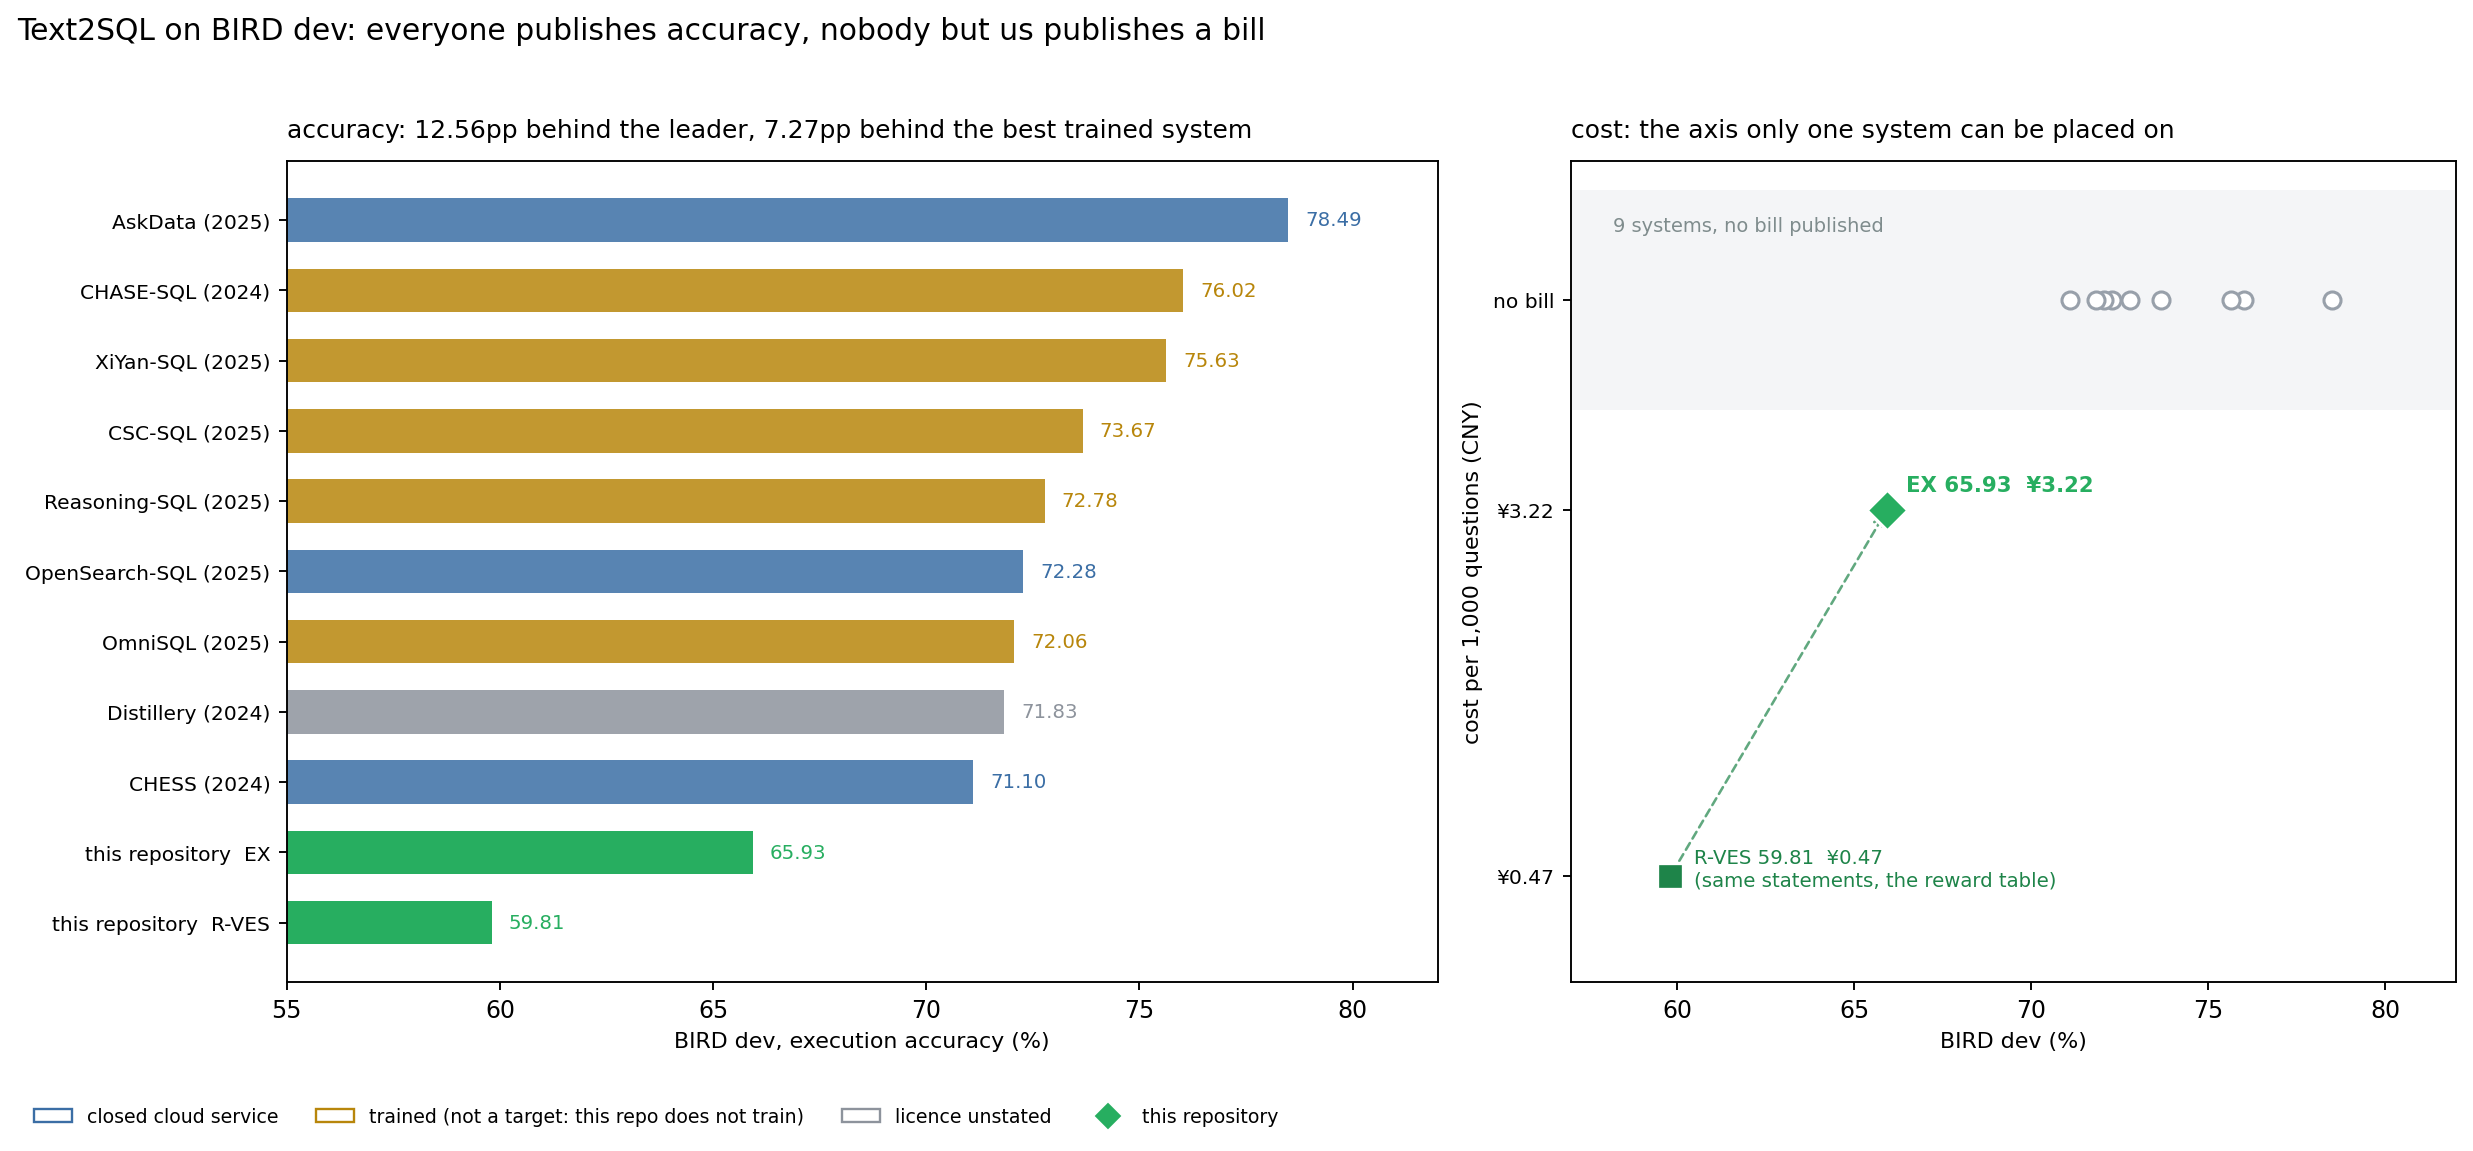
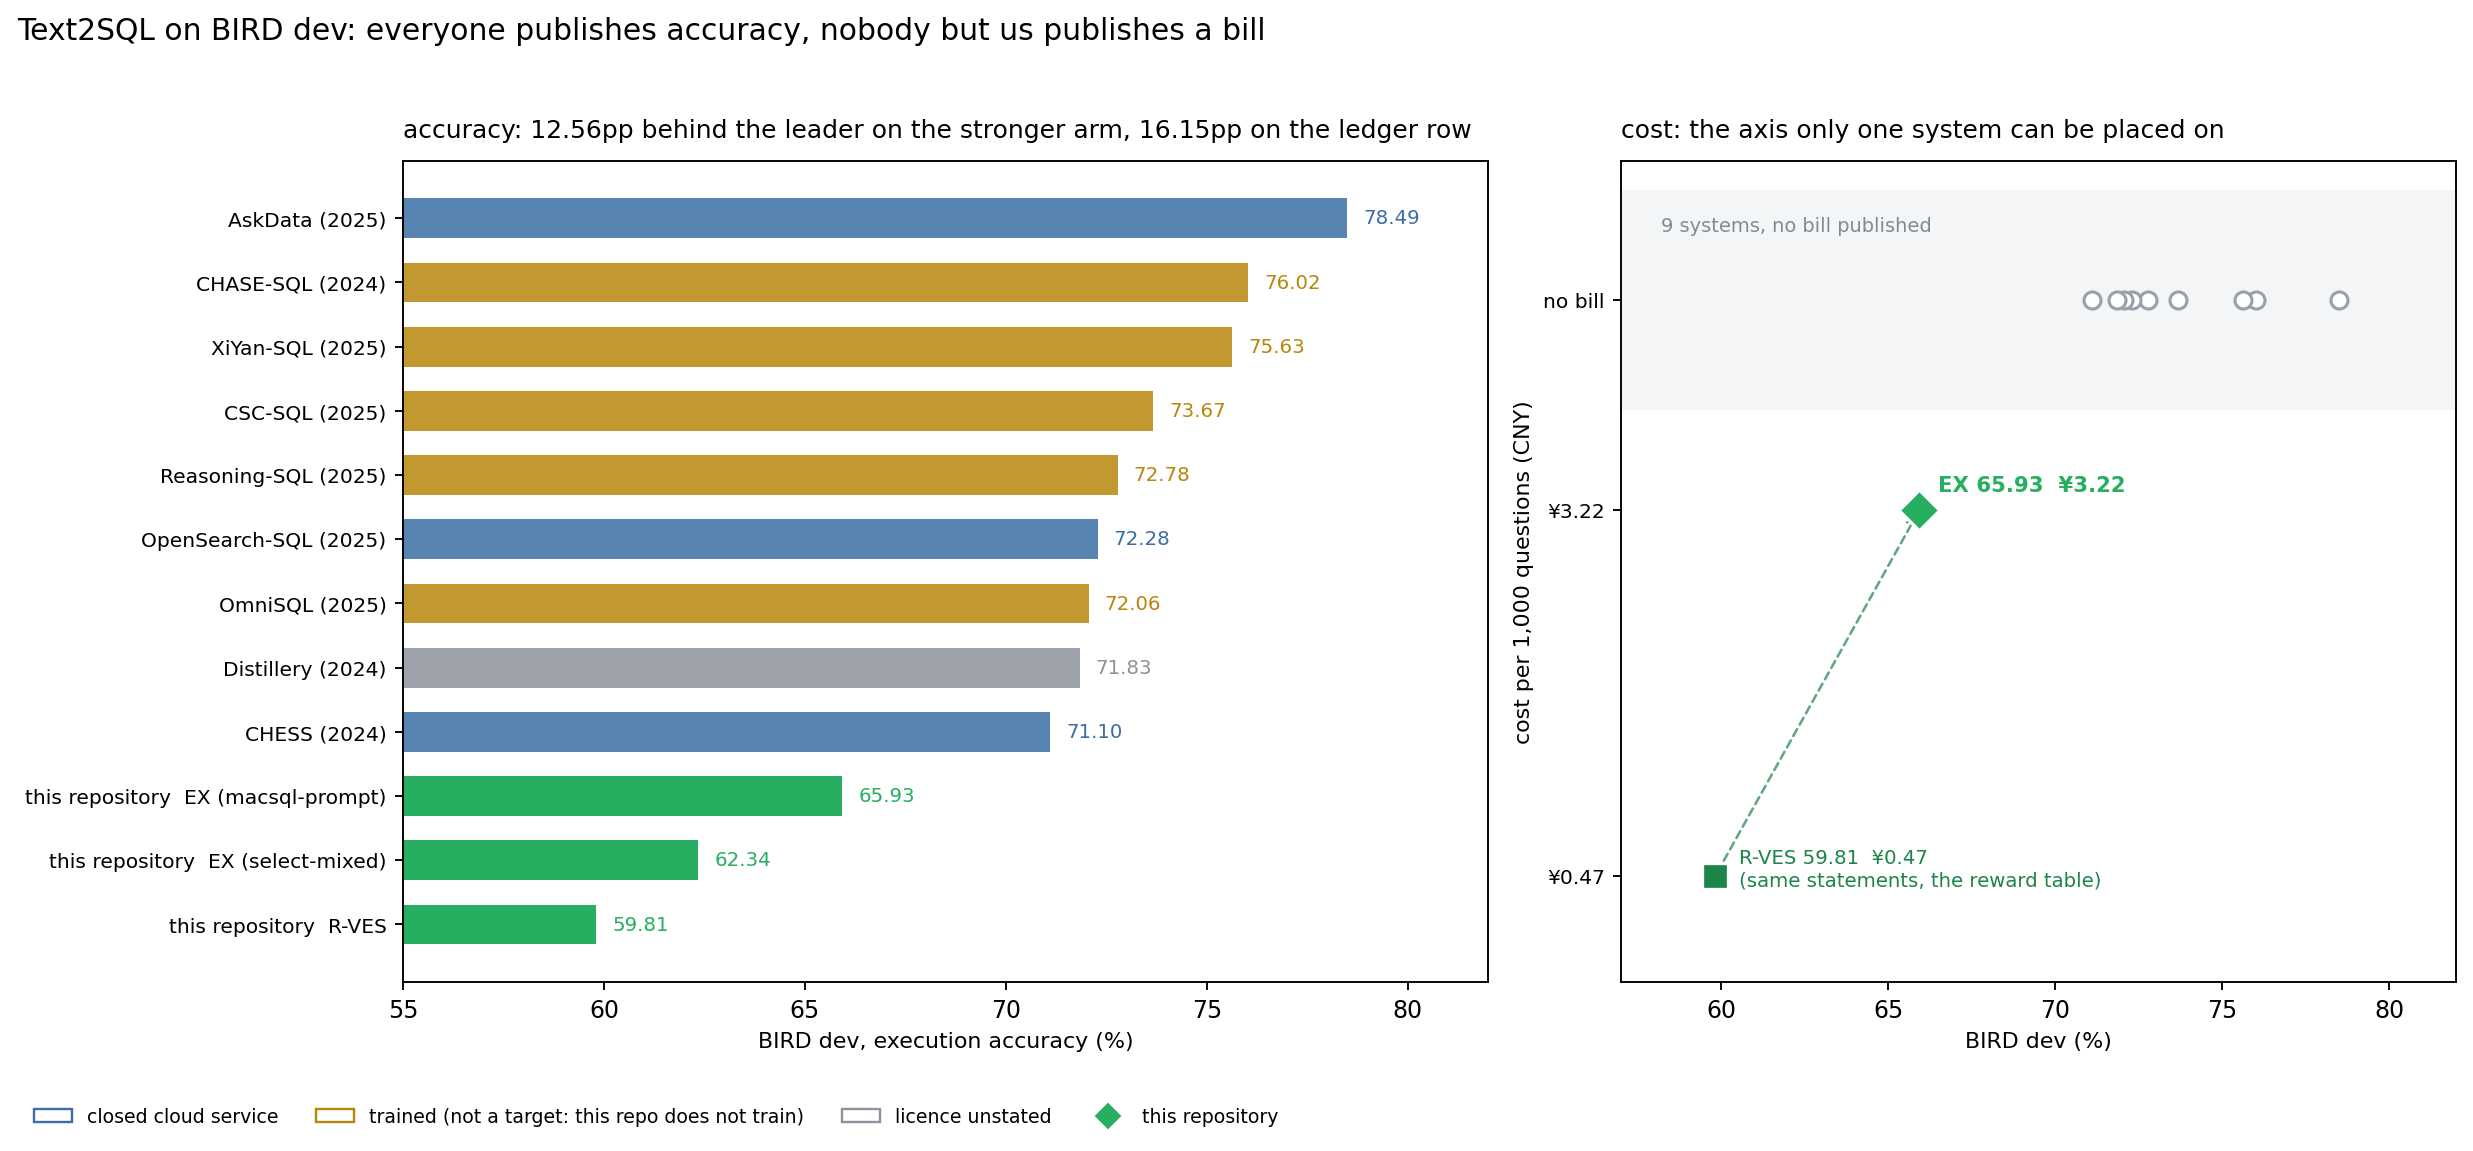
docs: 第一百九十四轮补记 —— BIRD dev 的两个 EX 口径矛盾，图表同时画出而不是选一个
armsBySplit.dev 不含 macsql-prompt（dev 工作流跑 select-mixed，62.34 已发布、地板 62.5），
而 R-VES 59.81 是在 macsql-prompt 上测的（EX 65.93，同一 1,532 题），bird-ves.json 又称它 the arm that ships。
本轮把两条都画进图（12.56pp / 16.15pp 两种差距表述），并把「对齐 armsBySplit 与 bird-ves.json 的 arm 字段」
列为下一轮第一件事。

diff --git a/进度追踪报告.md b/进度追踪报告.md
@@ -17413,3 +17413,15 @@ F1@3: 33.22% → 34.46% (+1.24%, 95% [-0.46%, 3.01%], inside the noise) over 751
 2. 推理层 5 规则若在 test 上分离，`REASONING_RULES` 需改，`decision` 对必须重读（测试会强制）。
 3. cap 4,000 验证 1.86pp 下界（≈¥15），用胜出的规则集。
 4. BIRD dev 多智能体复刻（P1，¥45–60，2–3 天）与 WikiSQL 首派（P2，¥12–18）互不阻塞。
+
+### 一个待澄清的口径：BIRD dev 上我们有两个 EX
+
+`eval/baseline/bird.json` 的 `armsBySplit.dev` 不含 `macsql-prompt`，dev 工作流跑的是
+`names / inline+evidence / metadata+evidence / select / select-mixed / select-cross`，其中 `select-mixed`
+的地板是 62.5、已发布读数 **62.34**（run `41296610389`）。而 R-VES 59.81 是在 **`macsql-prompt`** 上测的，
+它的 EX 是 **65.93**（同一批 1,532 题、1,010 正确），`bird-ves.json` 的注记也称它为「the arm that ships」。
+
+两处记录互相矛盾：一个说发货的是 `select-mixed`，一个说发货的是 `macsql-prompt`。本轮不擅自选一个更好看的：
+图表同时画出两条（65.93 与 62.34），差距分别按 12.56pp 与 16.15pp 表述。下一轮第一件事是把
+`armsBySplit` 与 `bird-ves.json` 的 `arm` 字段对齐，并让 `eval/benchmarks.ts` 的 `bird-dev` 行引用
+发货臂的真实读数，而不是同时保留两个「已发布」。
